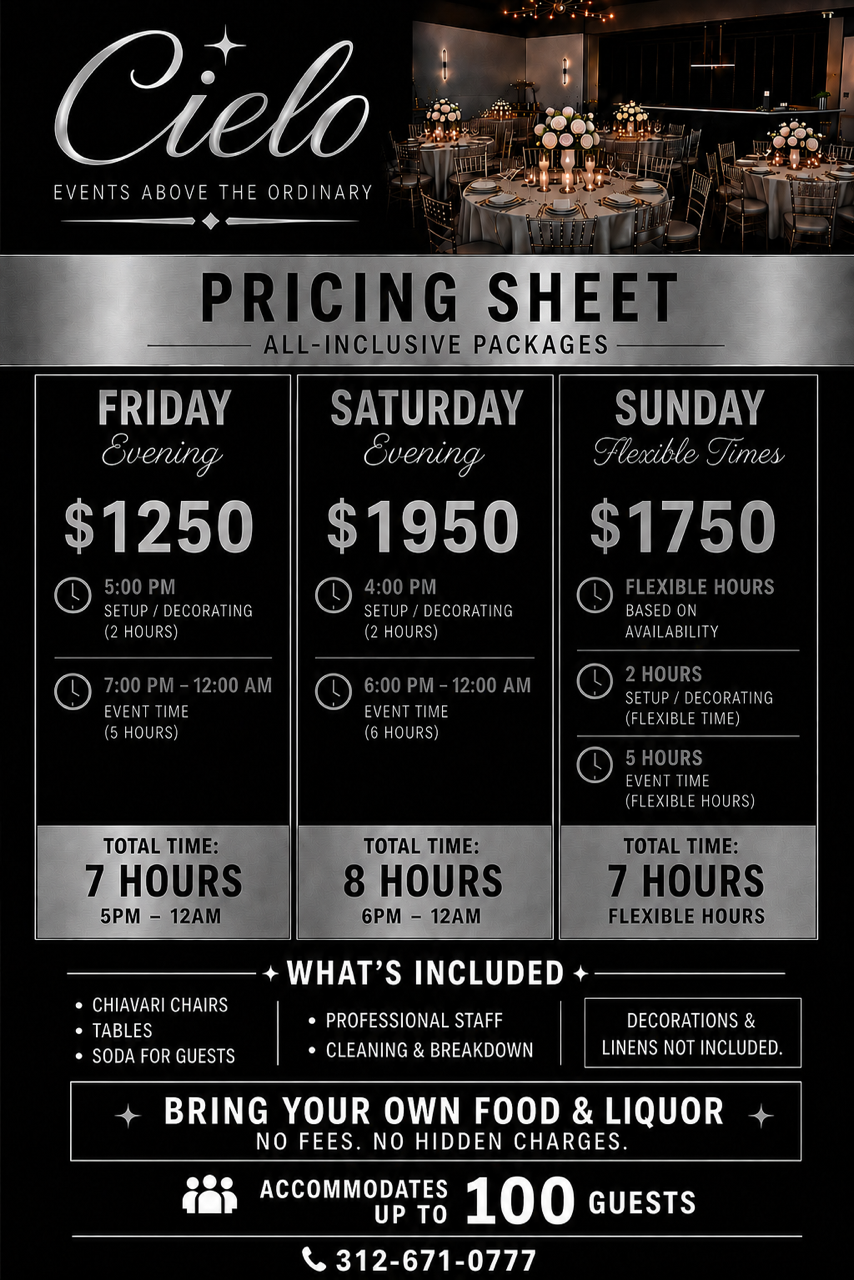
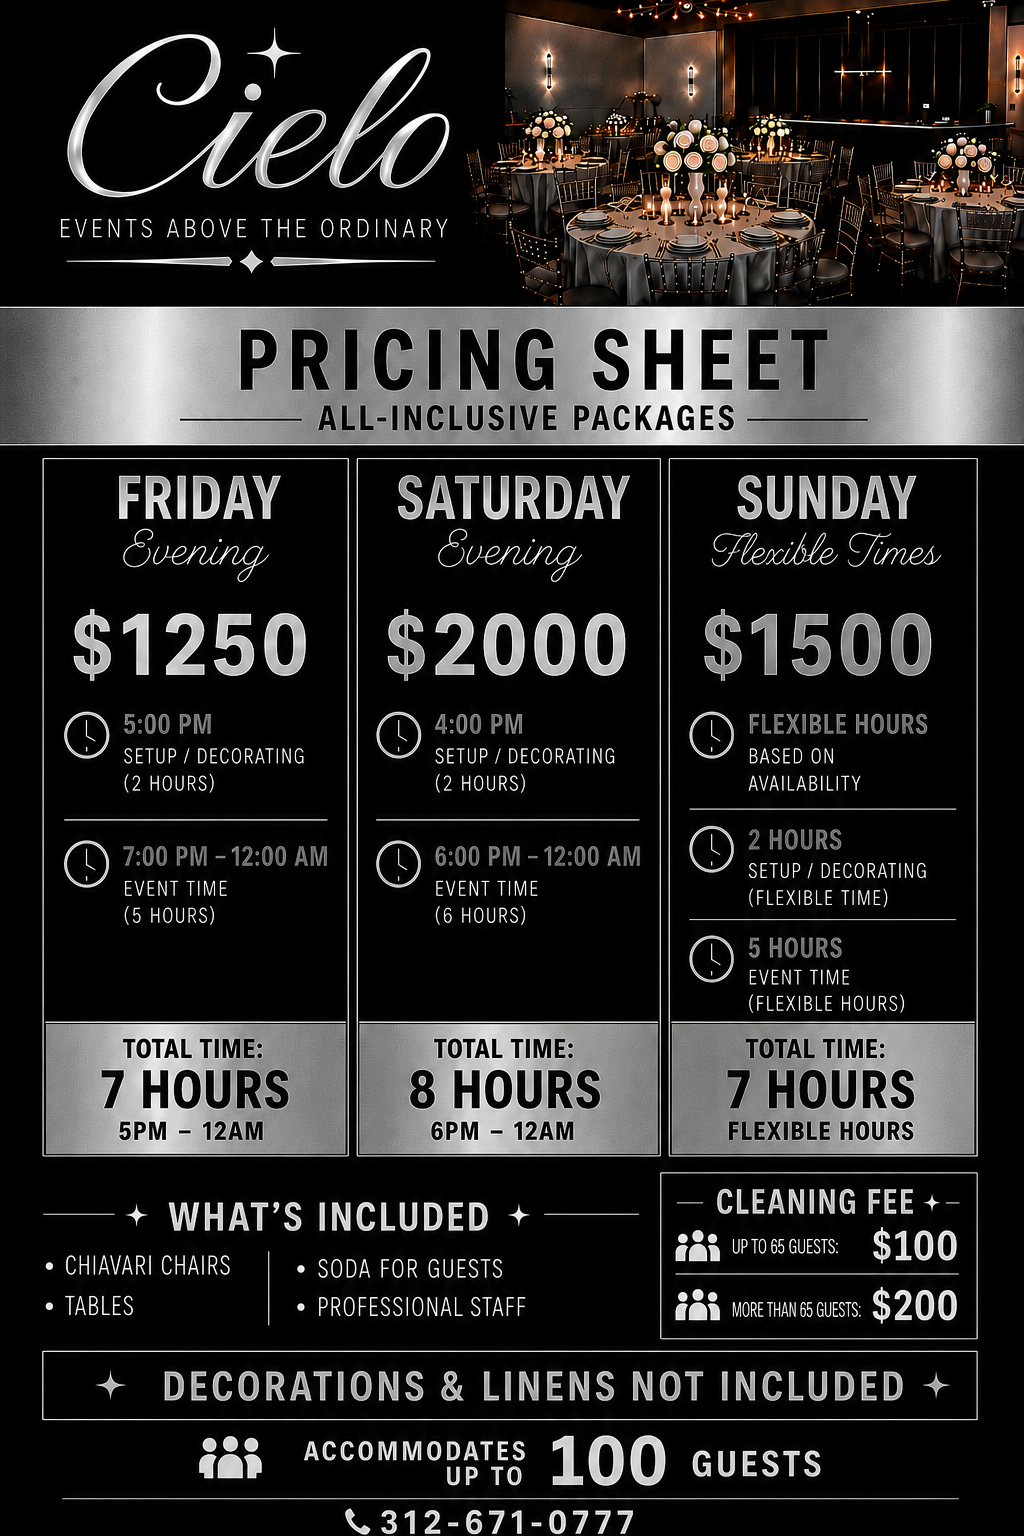
update

diff --git a/src/data/venues.js b/src/data/venues.js
@@ -5,7 +5,7 @@ export const venues = [
     city: 'Franklin Park',
     logo: '/images/logos/cielo.png',
     hero: '/images/hero/cielo-hero.png', 
-    video: '',
+    video: '/videos/cielo.mp4',
     heroSlides: [
   '/images/venues/cielo/hero03.png'
 ],
